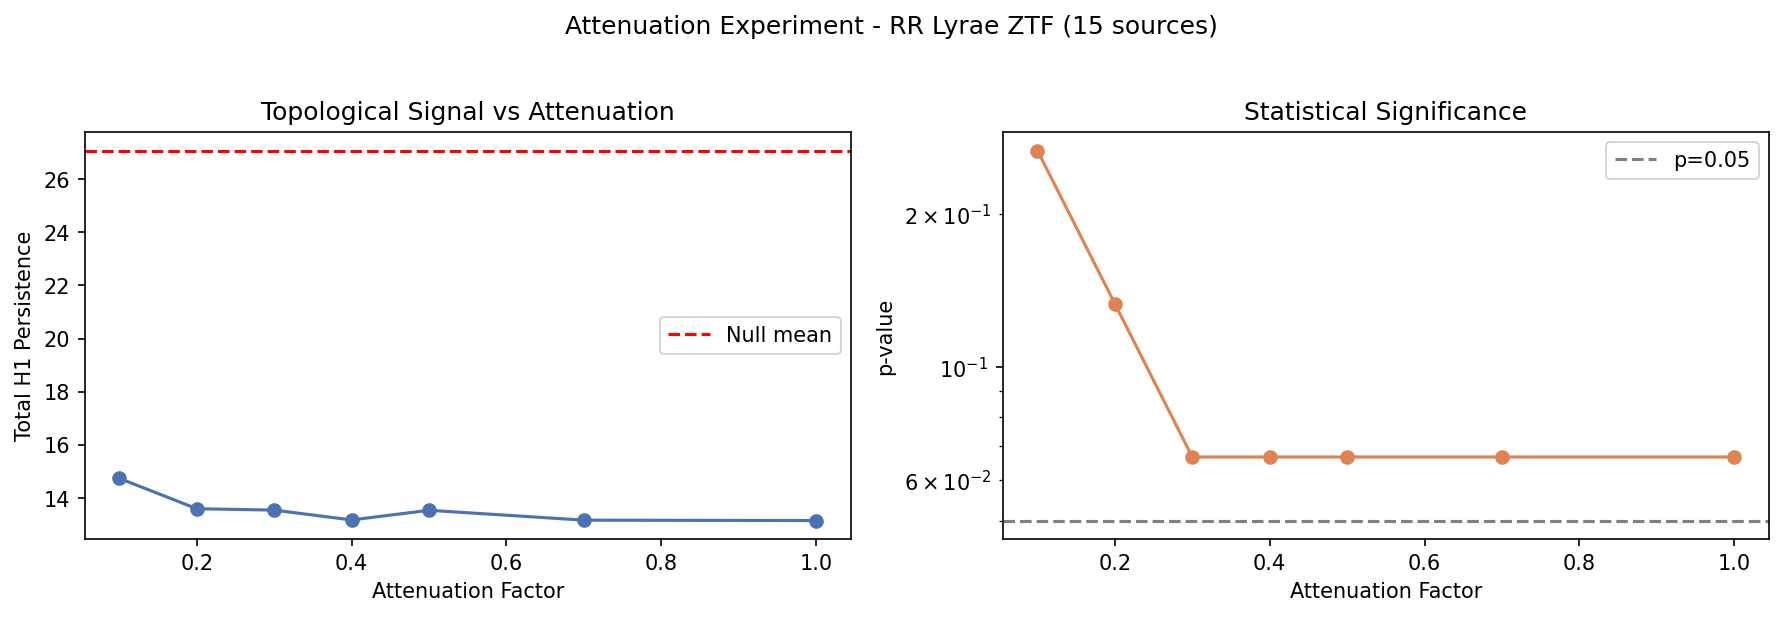
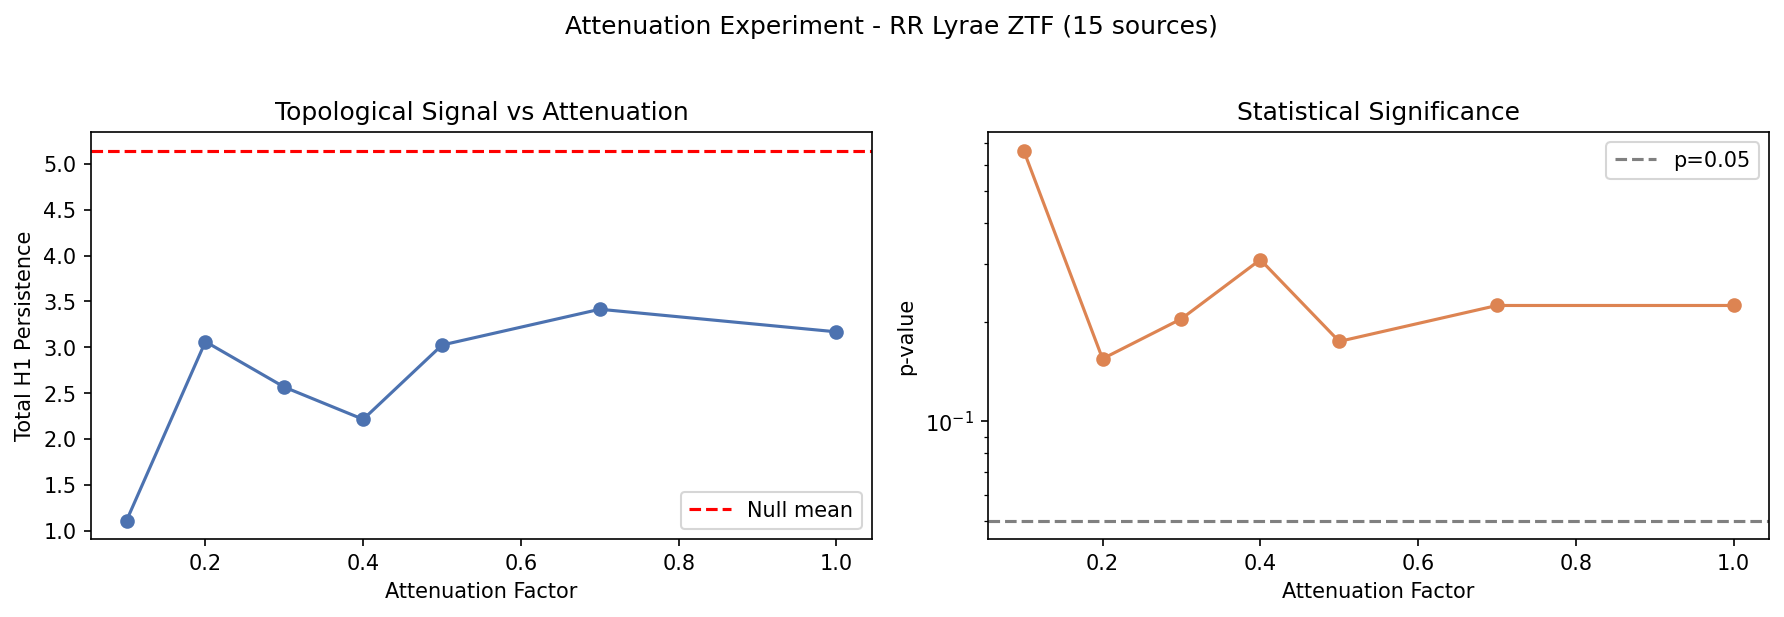
ZTF validation: properly-calibrated null (n=200) reveals clean negative result
Bumped null realizations 15 -> 200 (p-floor 0.067 -> 0.005) and matched noise pool size to real source count.

Result: 15-source RR Lyrae ensemble produces no detectable H1 above null at any attenuation level (p=0.15-0.31). Previous H1~13 was an artifact of under-sampled null variance; calibrated H1~3.

Artifacts:
- output/ztf_validation.log (under-calibrated baseline)
- output/ztf_validation_v2.log (calibrated)
- output/ztf_01_embeddings.png, ztf_02_feature_space.png, ztf_03_attenuation.png

diff --git a/run_ztf_validation.py b/run_ztf_validation.py
@@ -150,9 +150,13 @@ if len(source_lcs) < 5:
     source_lcs = [lc for lc in source_lcs if len(lc.fluxes) >= 20][:10]
 print(f"\n6. Attenuation experiment: {len(source_lcs)} high-SNR RR Lyrae")
 
-noise_lcs = [generate_noise(n_epochs=150, rng=np.random.default_rng(rng.integers(0, 2**63))) for _ in range(150)]
+# Match null pool size to the real source count so the background topology
+# is computed on a comparable cloud (was dominated by 150 noise sources).
+n_pool = max(len(source_lcs) * 2, 30)
+noise_lcs = [generate_noise(n_epochs=150, rng=np.random.default_rng(rng.integers(0, 2**63))) for _ in range(n_pool)]
+# 200 realizations gives a usable p-floor of 1/200 = 0.005, well below 0.05.
 null_dist = build_null_distribution(
-    n_realizations=15,
+    n_realizations=200,
     n_sources_per=len(source_lcs) + len(noise_lcs),
     n_epochs=150,
     embedder=embedder,